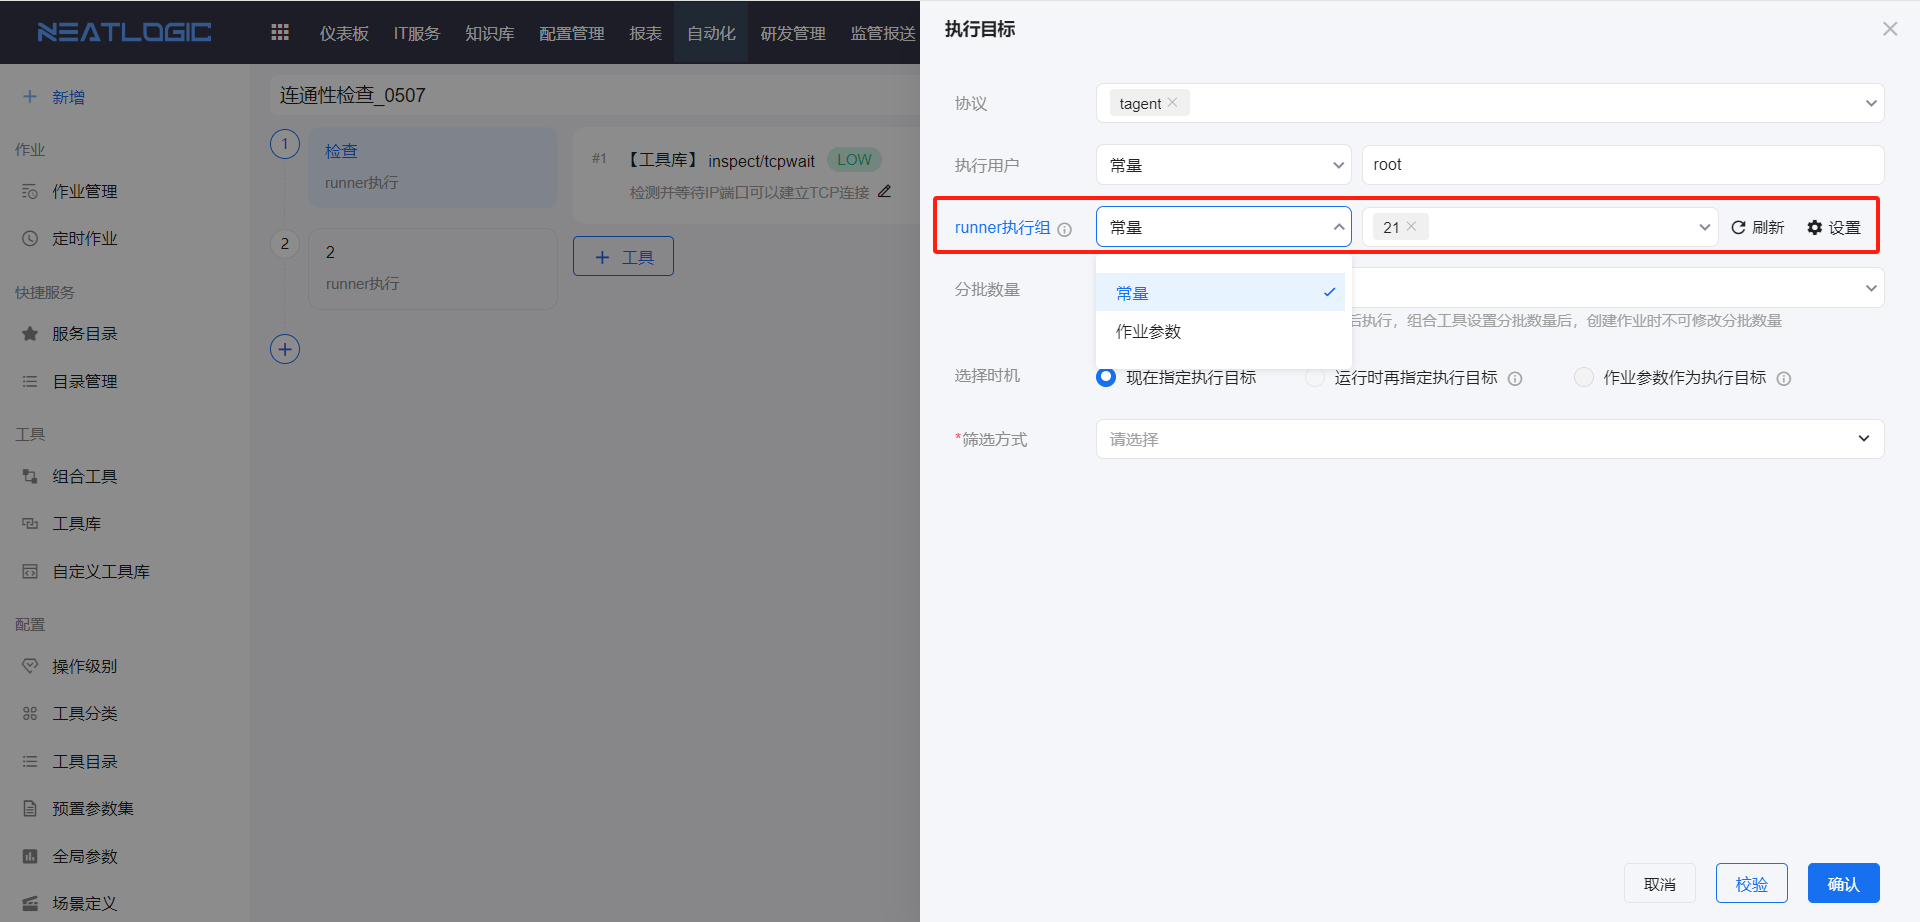
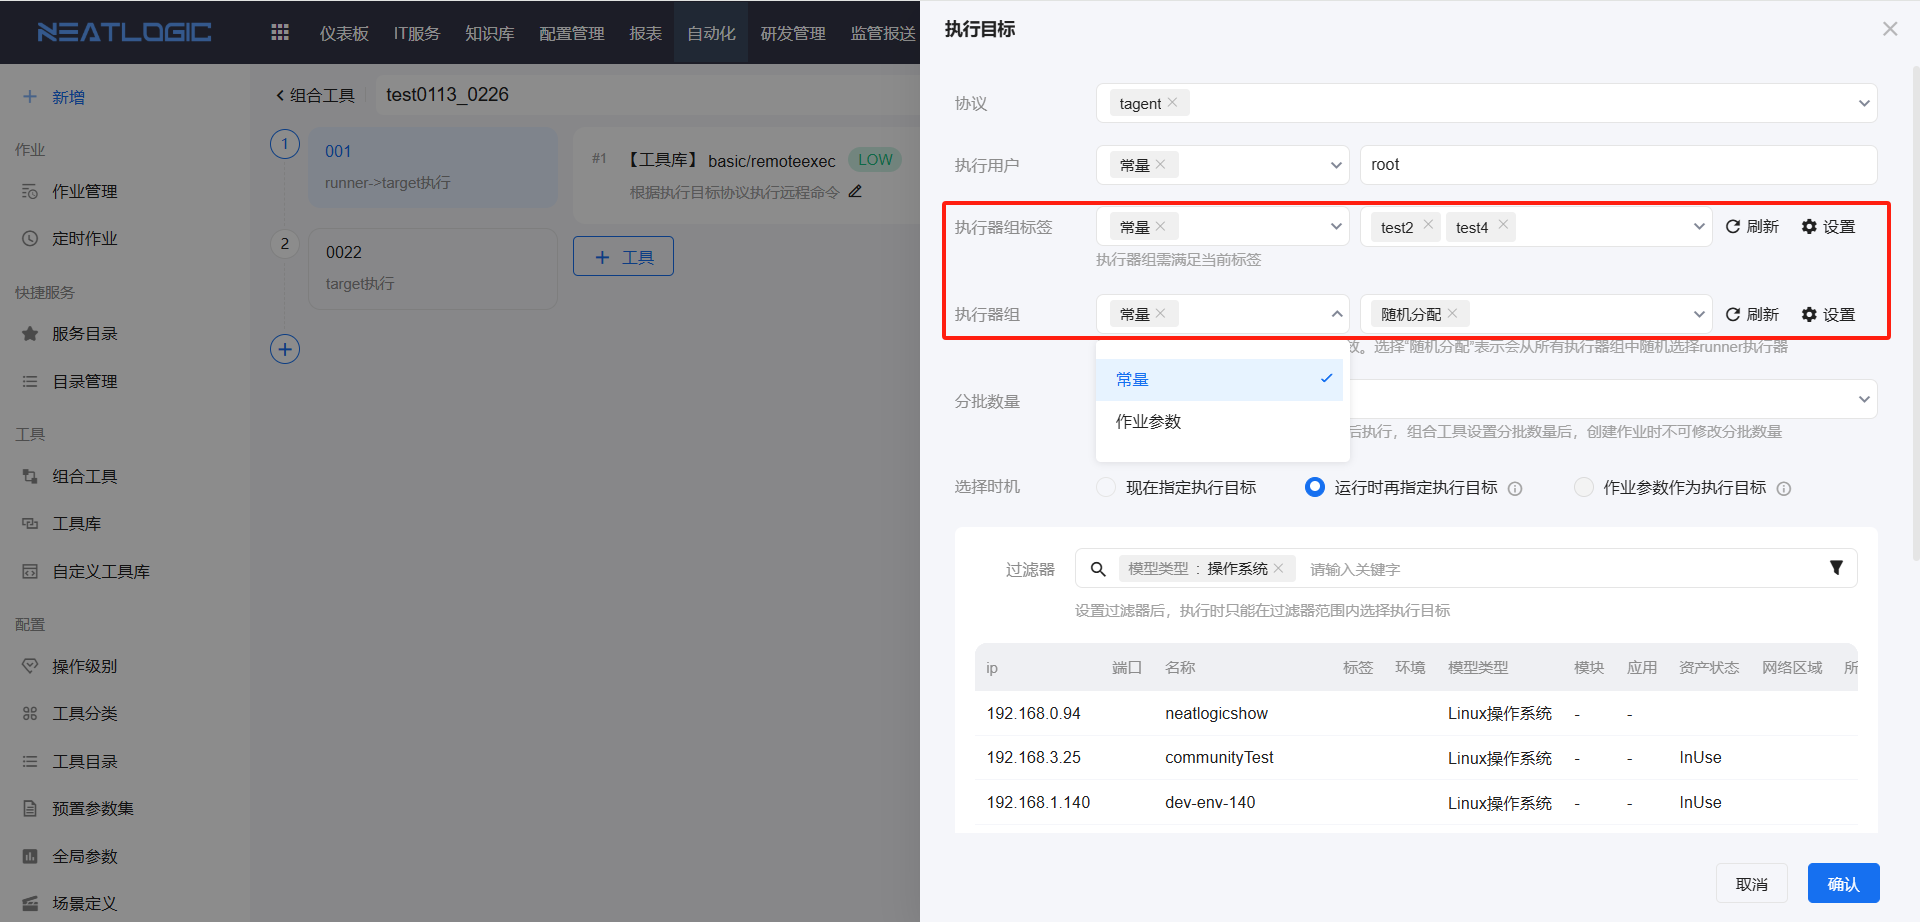
更新自动化作业和组合工具文档

diff --git a/src/main/resources/neatlogic/resources/documentonline/zh/5.自动化/组合工具/组合工具.md b/src/main/resources/neatlogic/resources/documentonline/zh/5.自动化/组合工具/组合工具.md
@@ -3,18 +3,22 @@
 ![](images/组合工具.png)
 
 ## 权限说明
-有两个维度的相关权限，系统层和组合工具层面，系统层权限在[权限管理](../../100.系统配置/1.用户和权限/用户和权限.md)页面设置，组合工具层面的权限在组合工具中设置。
+有两个维度的相关权限，系统层和组合工具层面，系统层权限在[权限管理](../../100.系统配置/1.用户和权限/用户和权限.md)页面设置，组合工具层面的权限在组合工具基本信息中设置。
 
 系统层：组合工具查看权限、组合工具新建权限
-- 组合工具查看权限：用户有这个权限就能访问组合工具管理页面。
-- 组合工具新建权限：用户有这个权限可以访问组合工具管理页面，并且进行新增、复制、导入和导出操作。
+- 组合工具查看权限：用户有这个权限，可查看组合工具菜单。
+- 组合工具新建权限：用户有这个权限，可查看组合工具菜单，并且进行新增、复制、导入和导出组合工具操作。
+
+![](images/组合工具系统层权限.png)
   
-组合工具层：维护人权限、查看权限、编辑权限、执行权限。
+组合工具维度：数据权限，权限控制的是单个组合工具，维护人权限、查看权限、编辑权限、执行权限。
 
 - 维护人权限：组合工具的维护人拥有组合工具的查看、编辑和执行权限。
 - 查看权限：如果是一个普通的用户，缺少某个组合工具查看权限，组合工具列表会过滤掉该组合工具。
 - 编辑权限：用户查看组合工具详情时，有编辑权限，页面才显示编辑按钮。
 - 执行权限：用户有组合工具的执行权限时，管理页中组合工具的执行按钮才能使用，组合工具详情页面也会显示执行按钮。
+
+![](images/组合工具基本信息_权限.png)
 
 ## 管理页
 组合工具管理页支持添加、编辑、复制、导入、导出组合工具和查看引用列表，以及添加作业和查看执行记录等功能。
@@ -72,7 +76,7 @@
 - 上游节点输出参数值：当前工具所在阶段有上游的阶段，或者有前置工具时，可选择引用上游节点工具的输出参数，但是可选对象有限制，只能选择类型相同的参数。
 - 上游节点输出参数名：当前工具所在阶段有上游的阶段，或者有前置工具时，可选择引用上游节点工具的输出参数，没有参数类型限制。
 - 为空：参数值为空，只有非必填的参数映射方式有为空。
-- 预置参数集：启用关联[预置参数集](../配置/自动化配置.md#预置参数集)的工具参数可引用预置参数集的参数。
+- 预置参数集：启用关联[预置参数集](../配置/自动化配置.md)的工具参数可引用预置参数集的参数。
 
 #### 输出参数
 工具中定义的输出参数，在组合工具编辑页面，只回显输出参数，不能做任何修改。
@@ -133,7 +137,7 @@
 执行目标配置包括协议、执行用户、runner执行组、分批数量、选择时机和筛选方式。
 
 #### 连接协议
-连接协议可在阶段、组合工具的执行目标中预设，也支持发起作业时再指定。系统支持常见的连接协议，包括ssh、http、database、tagent、snmp、ipmi等。连接协议数据来源于资源中心的[账号管理](../../3.配置管理/资源中心/账号管理.md)。
+连接协议可在阶段、组合工具的执行目标中预设，也支持发起作业时再指定。系统支持常见的连接协议，包括ssh、http、database、[tagent](../Tagent服务/Tagent服务.md)、snmp、ipmi等。连接协议数据来源于资源中心的[账号管理](../../3.配置管理/资源中心/账号管理.md)。
 
 #### 执行用户
 执行用户是指作业通过协议连接机器时使用的用户名，这里的用户名要与连接的机器的配置项数据中添加的账号的用户名一致。执行用户支持输入常量或者引用作业参数。
@@ -141,6 +145,7 @@
 
 #### runner执行组
 runner执行组配置是定义runner执行的阶段（组）分配到的执行器组，其数据来源于[执行器组管理](../../100.系统配置/5.基础服务/执行器组管理.md)。<br>
+执行器组标签：每个执行器组标记了标签，发起作业时，要先根据选择的执行器标签过滤执行器组。
 runner执行组支持直接选择执行器组或者引用作业参数。
 ![](images/组合工具_执行目标_runner执行组.png)
 

diff --git a/src/main/resources/neatlogic/resources/documentonline/zh/5.自动化/作业/自动化作业.md b/src/main/resources/neatlogic/resources/documentonline/zh/5.自动化/作业/自动化作业.md
@@ -1,14 +1,14 @@
 # 自动化作业
 自动化作业支持手动发起作业和定时发起作业两种方法。
 
-手动发起作业的来源类型主要分成[组合工具](../组合工具/组合工具.md)发起作业、工具测试、人工巡检、发起发布作业、IT服务触发、自动发现触发，本文只介绍组合工具发起作业，工具测试作业请参考[工具库](../工具库/工具库.md)和[自定义工具库](../自定义工具库/自定义工具库.md)。
+手动发起作业的来源类型主要分成[组合工具](../组合工具/组合工具.md)发起作业、工具测试、人工巡检、发起发布作业、工单[自动化节点](../../2.IT服务/流程管理/流程管理.md)触发、[自动发现](../../3.配置管理/自动发现/网段自动发现.md)触发，本文只介绍组合工具发起作业，工具测试作业请参考[工具库](../工具库/工具库.md)和[自定义工具库](../自定义工具库/自定义工具库.md)。
 
-定时作业包括定时巡检、定时发布、组合工具定时作业。本文只介绍组合工具的定时作业，定时巡检和定时发布参考巡检和发布模块。
+定时作业包括定时巡检、定时发布、组合工具定时作业。本文只介绍组合工具的定时作业，定时巡检和定时发布参考[资产巡检](../../4.巡检/资产巡检.md)、[应用巡检](../../4.巡检/应用巡检.md)和发布模块。
 
 ## 权限说明
 相关权限：“自动化基础权限”、“作业维护权限”
-1. 用户有“自动化基础权限”，即可访问作业管理菜单，并查看作业详情
-2. 用户有“作业维护权限”，才能进行删除作业、修改执行方式登操作
+1. 用户有“自动化基础权限”，可访问作业管理菜单，并查看作业详情
+2. 用户有“作业维护权限”，才能进行删除已完成作业操作
 
 ## 手动发起作业
 组合工具发起作业的入口有两个，一个是快速发起入口，一个是组合工具的发起入口。
@@ -44,8 +44,9 @@
 作业管理页面汇总了所有的途径发起的自动化作业。
 
 ### 管理页
-作业管理页可按需搜索作业，支持编辑作业计划时间和执行方式，执行、撤销和删除作业等操作。
+作业管理页可按需搜索作业，用户可以接管除了“运行中”或“已完成”的作业，作业执行人可以编辑作业计划时间和执行方式，执行、撤销和删除作业等操作。
 
+* 接管，作业当前状态不是“运行中”或“已完成”，且当前登录人非作业执行人时，当前登录用户可以接管作业，作业的执行人变更为当前登录人。
 * 搜索
 ![](images/作业管理_搜索.png)
 * 编辑计划时间和执行方式，仅未开始执行的作业可修改。
@@ -56,6 +57,7 @@
   ![](images/作业管理_执行.png)
 * 删除，删除作业
   ![](images/作业管理-删除.gif)
+
 ### 详情页
 在作业管理页，点击作业标题，跳转到到作业详情页面，如图。
 ![](images/作业管理_作业详情.png)
@@ -70,7 +72,7 @@
 * 接管：当前登录人不是作业的执行人，但是有作业执行权限，可接管作业，接管后，才能对作业进行操作。
 
 在阶段层面，分远程执行和本地执行两张情况。
-* 远程执行：阶段的节点支持重置、执行和忽略等操作。<br>
+* 远程执行：显示执行节点列表，节点支持重置、执行和忽略等操作。<br>
   重置，将节点状态重置为“待运行”，重新执行作业或阶段时，可重新执行重置的节点。<br>
   忽略，将节点状态标为“已忽略”，重新执行作业或阶段时，会忽略该节点。
   ![](images/作业管理_详情_阶段节点.png)
